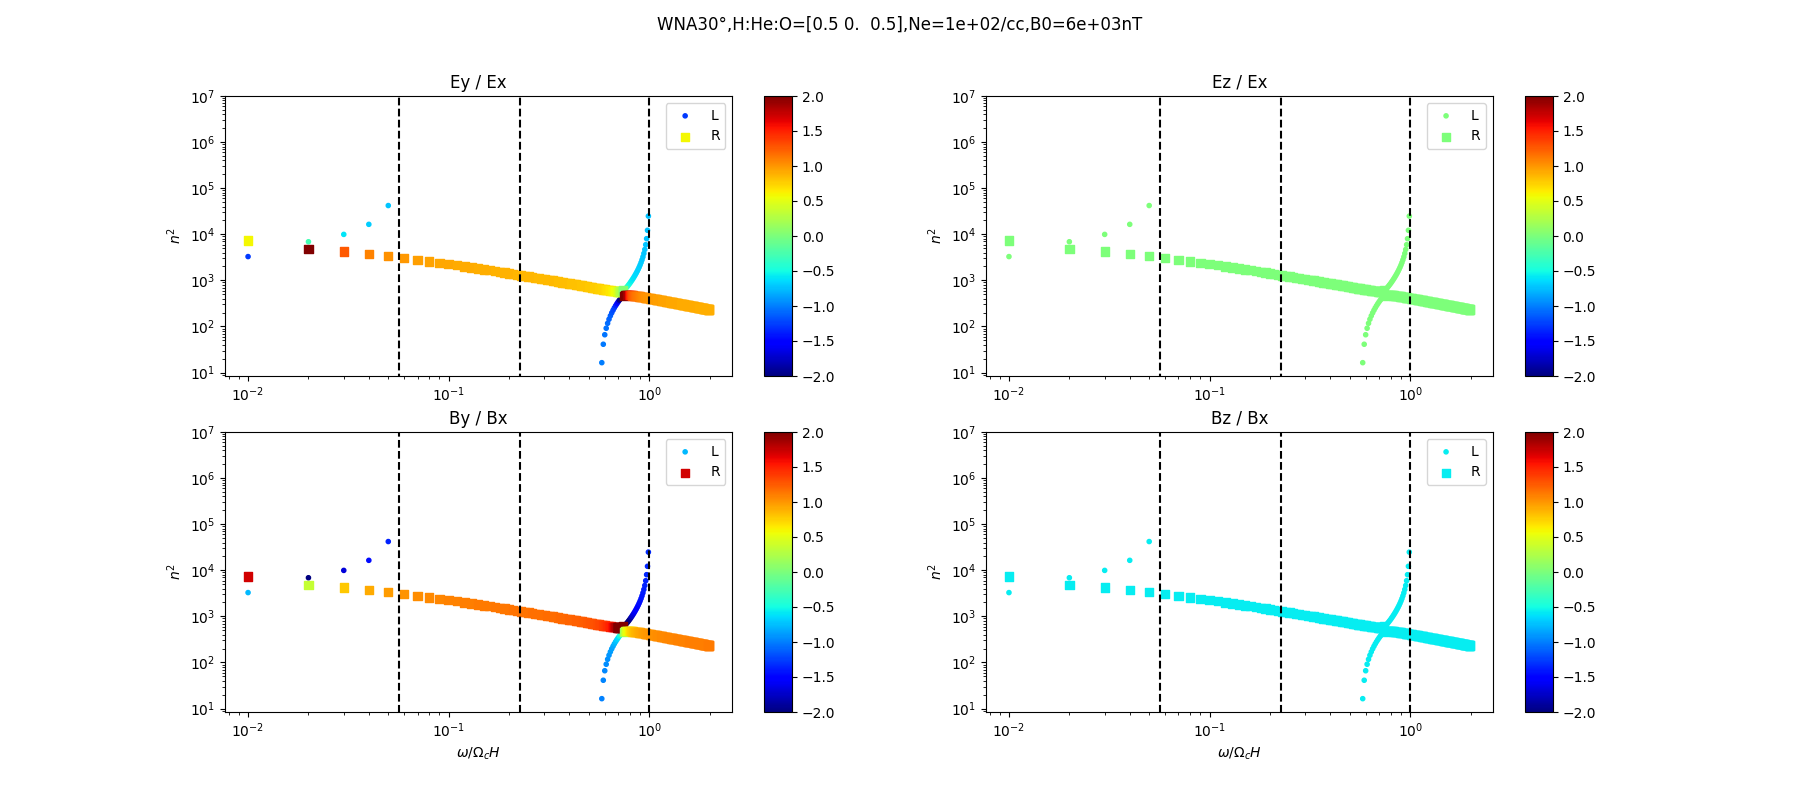
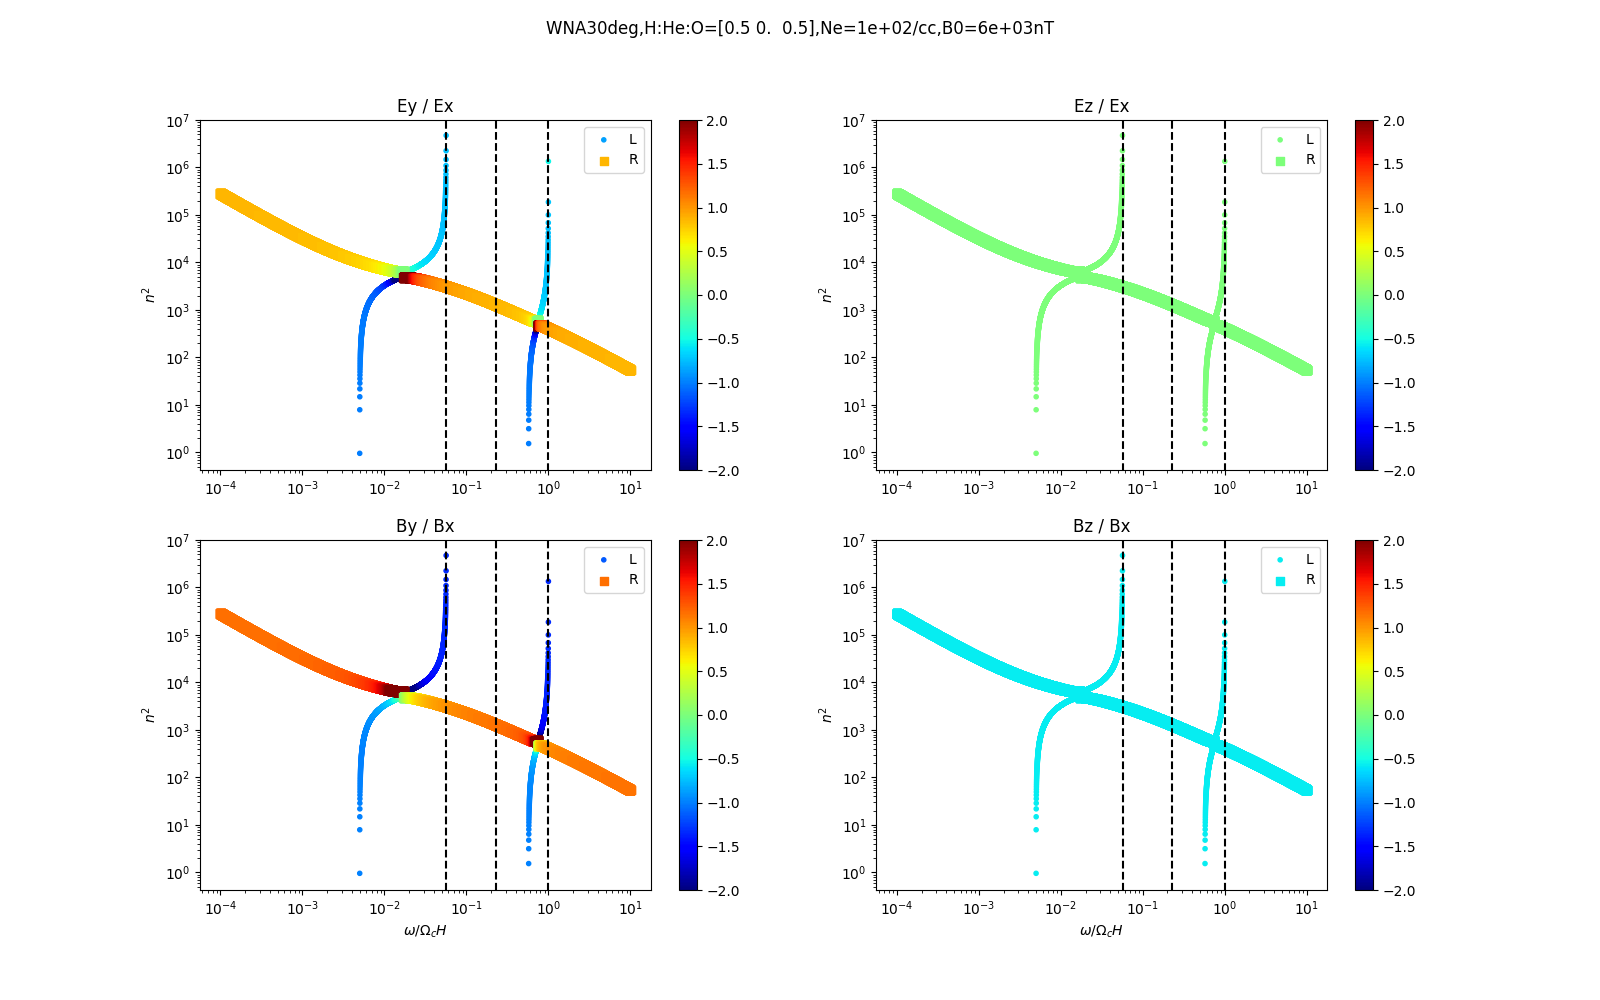
add plot

diff --git a/VLF_mca/plot_dispersion_relation.py b/VLF_mca/plot_dispersion_relation.py
@@ -3,9 +3,9 @@ import plasma_params as pp
 import matplotlib.pyplot as plt
 import calc_dispersion_in_cold_plasma as calc_dr
 
-theta = 0
-omega_s = np.abs(pp.omega_h)
-freq = omega_s*np.arange(1e-2, 2, 1e-4)
+theta = 90
+omega_s = np.abs(pp.wlh)
+freq = omega_s*np.logspace(-4, 1, 10000)
 
 n_L, n_R, S, D, P = calc_dr.calc_dispersion_relation(freq, theta)
 # idx = calc_dr.get_crossover_freq_idx(D, theta)
@@ -23,7 +23,7 @@ axs.vlines(char_freq, 0, 1e7, linestyles='dashed', colors='k')
 # axs.vlines(crossover_freq, 0, 1e7, linestyles='dashed', colors='r')
 axs.set_xscale('log')
 axs.set_yscale('log')
-axs.set_xlabel(r'$\omega / \Omega_O$')
+axs.set_xlabel(r'$\omega / \Omega_cH$')
 axs.set_ylabel(r'$Refraction index ^2$')
 
 plt.legend()

diff --git a/VLF_mca/calc_polarization.py b/VLF_mca/calc_polarization.py
@@ -16,7 +16,7 @@ def calc_amp_ratio(n, S, D, P, theta):
     return Ey_to_Ex, Ez_to_Ex, By_to_Bx, Bz_to_Bx, E_to_BVa
 
 
-theta = 0
+theta = 90
 omega_s = np.abs(pp.omega_h)
 freq = omega_s*np.logspace(-4, 1, 10000)
 
@@ -37,7 +37,7 @@ char_freq = np.array([pp.omega_o, pp.omega_he, pp.omega_h]) / omega_s
 # crossover_freq = np.array([freq[idx]]) / omega_s
 
 fig, axs = plt.subplots(nrows=2, ncols=2, figsize=(16, 10))
-fig.suptitle('WNA'+str(theta)+'°,'+'H:He:O='+str(pp.ion_ratio) +
+fig.suptitle('WNA'+str(theta)+'deg,'+'H:He:O='+str(pp.ion_ratio) +
              ',Ne='+'{:.2g}'.format(pp.NE/1e6)+'/cc,B0='+'{:.2g}'.format(pp.B0/1e-9)+'nT')
 for i in range(2):
     for j in range(2):

diff --git a/VLF_mca/plasma_params.py b/VLF_mca/plasma_params.py
@@ -13,7 +13,7 @@ B0 = 6e-6  # [T]
 
 # plasma parameter
 NE = 100e6  # [m**-3]
-ion_ratio = np.array([0.5, 0.25, 0.25])
+ion_ratio = np.array([0.5, 0, 0.5])
 nh = ion_ratio[0]*NE
 nhe = ion_ratio[1]*NE
 no = ion_ratio[2]*NE
@@ -32,3 +32,5 @@ omega_he = Q*B0/MHE
 wlh = np.sqrt((omega_h**2+pi_h**2)/(1+(pi_e/omega_e)**2))
 wuh = (omega_e**2 + pi_e**2)**0.5
 Va = B0/(MYU*RHO)**0.5
+
+print(pi_e/6)
